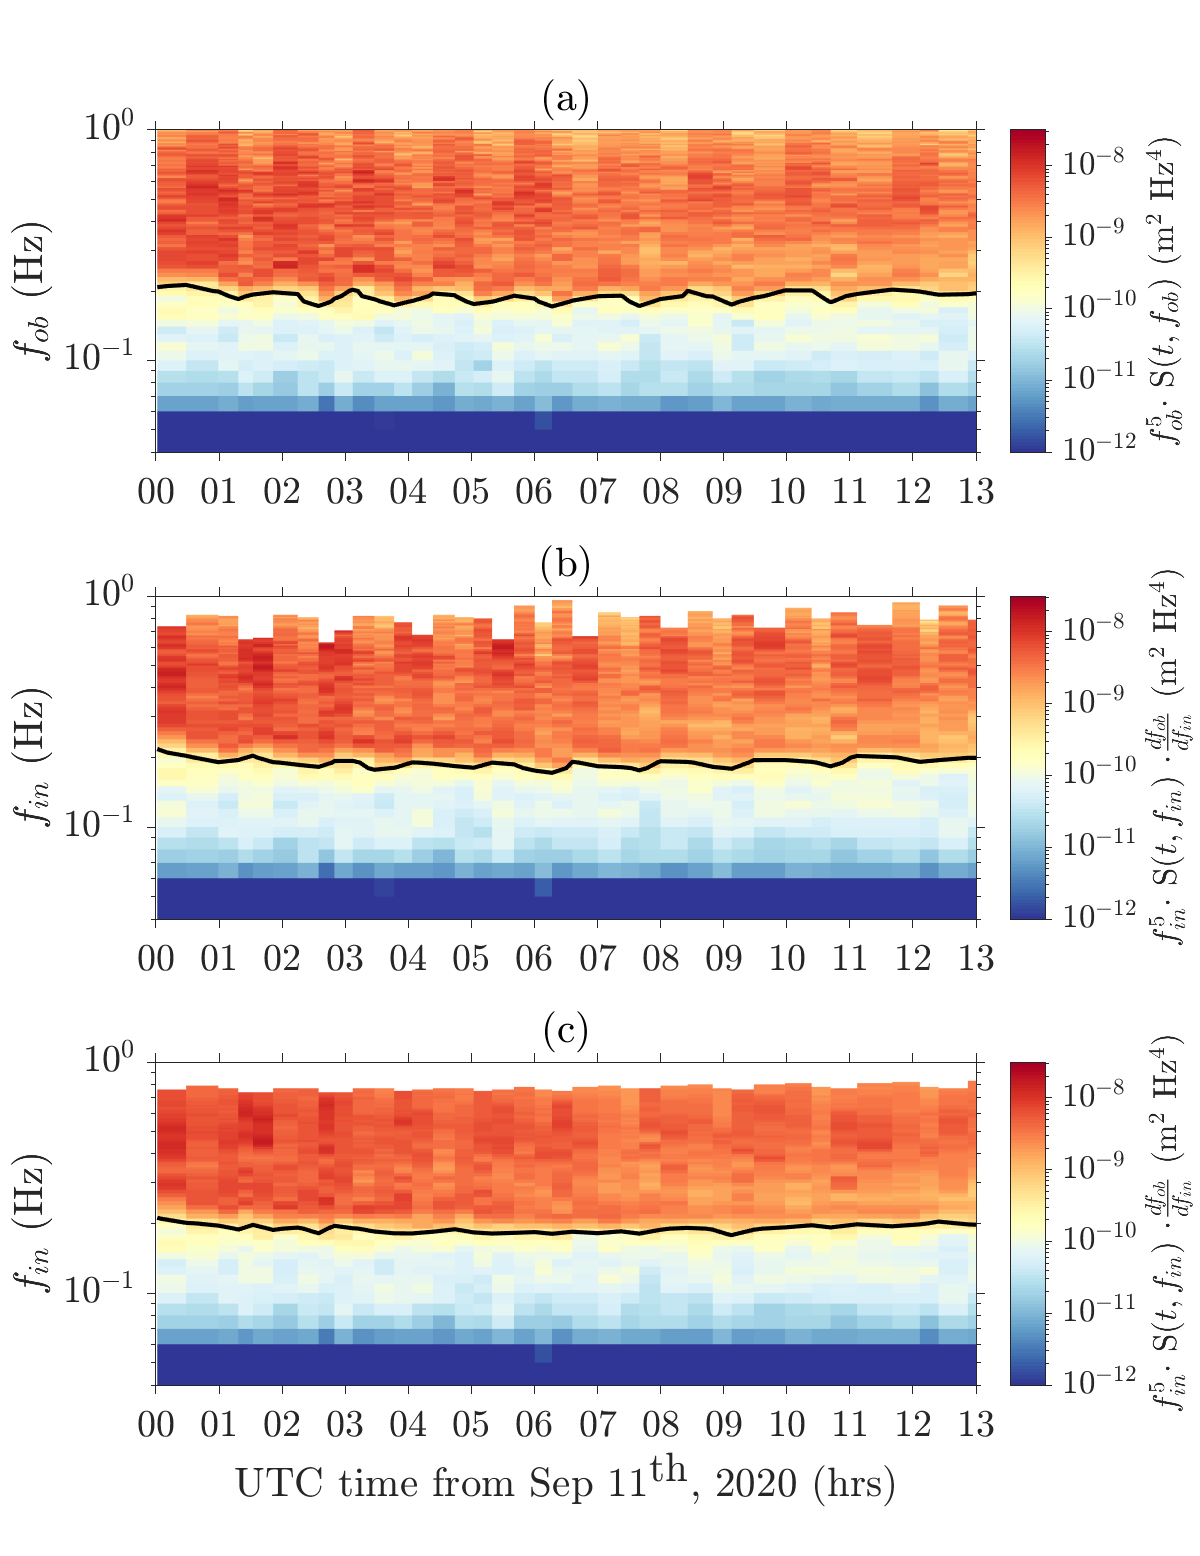
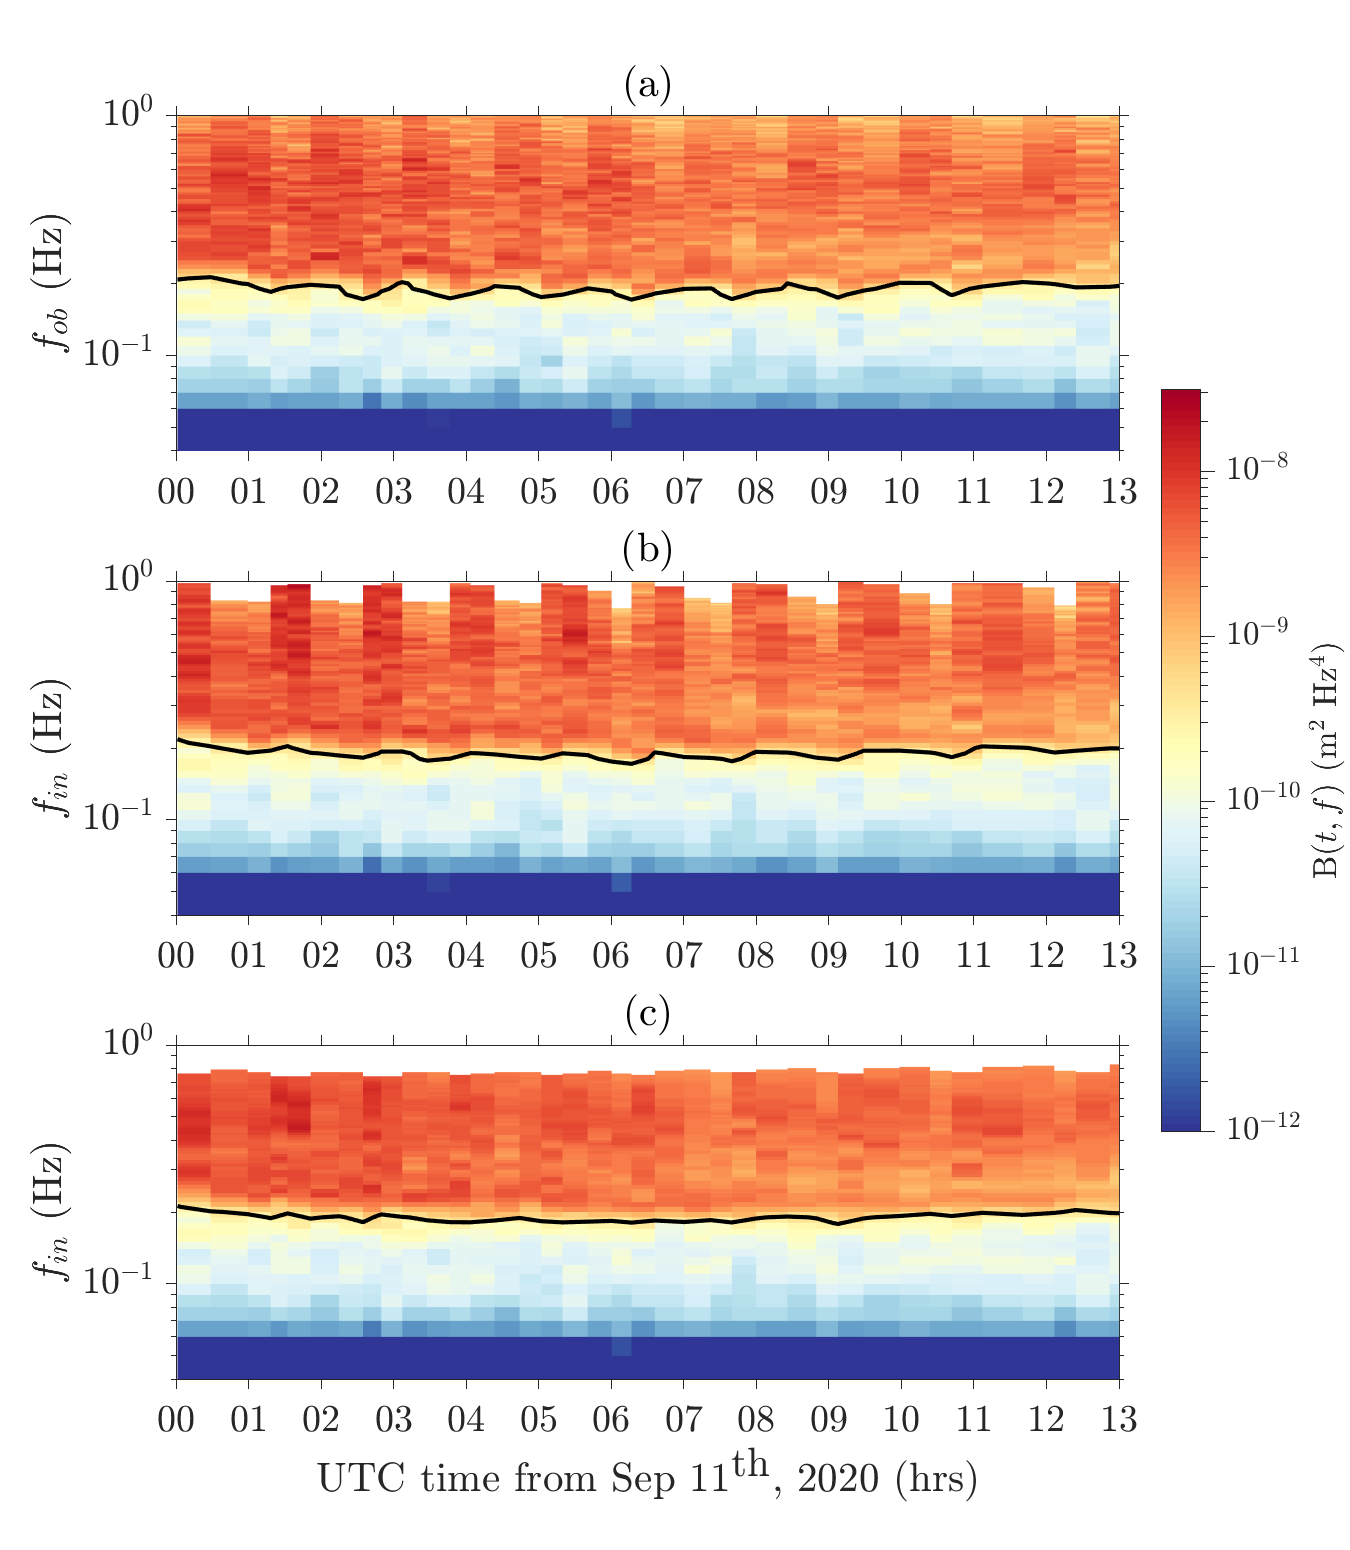
Merge colorbars, Increase font and update caption.

diff --git a/src/fig9.m b/src/fig9.m
@@ -2,10 +2,34 @@
 % Luke Colosi | lcolosi@ucsd.edu | August 20th, 2022
 
 %-------------------------------- Caption --------------------------------%
-% Sarturation wave spectrogram in observed frequency space (a) and
-% instrinsic frequency space using the (b) 1D- and (c) 2D-methods. The 
-% black curve is the 6*10^(-10) m$^2$Hz$^4$ power spectral density contour 
-% where the correlation coefficient $r$ is computed. 
+% Saturation wave spectrogram for the Stokes Wave Glider small box
+% trajectory in (a) observed frequency space and intrinsic frequency space
+% using the (b) 1D- and (c) 2D-methods. The black curve is the
+% $6\times10^{-10}$ m$^2$Hz$^4$ saturation spectral level contour where
+% the correlation coefficient $r$ is computed. 
+%-------------------------------------------------------------------------% 
+
+%--------------------------------- Notes ---------------------------------%
+% (1) Explanation for what's going wrong with attaching a spectral tail:
+% The spectral tail fitting works descently well when the blocking
+% frequency is within the saturation range and I fit a line in log10 space
+% from the equilibrium to saturation range transition frequency to
+% the highest accurately resolved frequency, the spectral tail is pretty
+% good. But when I try to fit the spectral tail in the equilibrium range,
+% the spectral tail is really bad! There are two reasons for this: 
+%
+%   (a) The transition frequency from the spectral peak to the equilibrium
+%   range is pretty low and close to the spectral peak. This transition
+%   frequency's function form was used in Lenain et al. 2017 (references
+%   Phillips 1985). I need to understand exactly where this comes from. 
+% 
+%   (b) As a result of (a), the linear fit includes a large band of the
+%   wave spectrum. For the delmar experiment, there exist multiple wave
+%   systems in the wave field (swell and developing wind seas). This biases
+%   the linear fit and makes it least squares approach unaffective. 
+% 
+% To resolve this problem, reduce the range of frequencies that we preform 
+% the least squares fit for the equilibrium range case. 
 %-------------------------------------------------------------------------% 
 
 clc, clear, close all;
@@ -52,7 +76,7 @@ nfft = fe_n/df;                                                             % Wi
 f = (0:df:fn);                                                              % Observed frequency (Hz)
 dtheta = 5;                                                                 % Angular resolution (degrees)
 ntheta = 360/dtheta+1;                                                      % Number of angles
-lambda_c = 1.5613;                                                          % % Wavelength cutoff (meters)
+lambda_c = 1.5613;                                                          % Wavelength cutoff (meters)
 f_noise = sqrt(g/(2*pi*lambda_c));                                          % Noise frequency cutoff 
 toolbox = 'WAFO';                                                           % Method used to compute directional spectrum 
 variables = 'heave_velocity';                                               % Heave and horizontal velocity are used to compute the direction spectrum
@@ -113,7 +137,7 @@ nov_s.Sd_f_ob = nov_s.Sd(:,Inoise_s,:);
 nov_s.sat_spectrogram_omni_f_ob = nov_s.spectrogram_omni_f_ob .* (nov_s.f_ob').^(5);
 
 %% Account for Doppler shifts by mapping observed frequency to intrinsic frequency
-clc
+clc, close all; 
 
 % Set variables for mapping
 tail = [zeros(size(nov_s.fst)); nov_s.feq; nov_s.fst]; 
@@ -130,7 +154,41 @@ for ileg = 1:nlegs_s
     [nov_s.dir_spectrogram_f_in(:,:,ileg), nov_s.f_in_2d(:,:,ileg), nov_s.dir_spectrogram_f_ob(:,:,ileg), ~, nov_s.fb_2d(:,:,ileg), ~, ~, ~]  = map_dir_spectrum(nov_s.Sd_f_ob(:,:,ileg)', nov_s.f_ob, f_noise, df, dtheta, nov_s.mspeed_legs(ileg), nov_s.rel_theta_legs(:,ileg), tail(:,ileg));
     
     % Compute Omni-directional Spectra from directional spectra 
-    nov_s.spectrogram_omni_f_in_2d(:,ileg) = sum(nov_s.dir_spectrogram_f_in(:,:,ileg) * dtheta, 2);
+    spectrogram_omni_f_in_2d_nt = sum(nov_s.dir_spectrogram_f_in(:,:,ileg) * dtheta, 2);
+
+    % Find non-nan values in S_fin after mapping
+    idx_nan = ~isnan(spectrogram_omni_f_in_2d_nt); 
+
+    % Attach a spectral tail if specified
+    if tail(1,ileg) == true
+        S_truc = spectrogram_omni_f_in_2d_nt(idx_nan);
+        f_truc = nov_s.f_ob(idx_nan);
+        f_tail = [f_truc(end), nov_s.f_ob(~idx_nan)];
+        [nov_s.spectrogram_omni_f_in_2d(:,ileg), ~, fit, f_fit] = omnidir_spectral_tail(S_truc, f_truc, f_tail, tail(2,ileg), tail(3,ileg), f_noise);
+    else
+        nov_s.spectrogram_omni_f_in_2d(:,ileg) = spectrogram_omni_f_in_2d_nt;
+    end
+
+%     % Plot omni-directional spectra with and without tails
+%     figure('units','normalized','outerposition',[0.6 0.5 0.4 0.6]);
+%     loglog(nov_s.f_ob, spectrogram_omni_f_in_2d_nt, '-b', 'LineWidth', 2)
+% 
+%     % Set figure attributes
+%     xlabel('f (Hz)')
+%     ylabel('S(f) ($m^2 Hz^{-1}$)')
+%     xlim([10^-2 10^0])
+%     ylim([10^-10 10^-4])
+%     set(gca, 'FontSize', 15)
+% 
+%     % Save Figure
+%     saveas(gcf, '../../WaveGlider/figs/SMODE_P2021/omnidir_spec_tail_1.png')
+% 
+%     % Plot the least-square fit and the omni-directional spectrum with
+%     % spectral tail 
+%     hold on 
+%     loglog(nov_s.f_ob, nov_s.spectrogram_omni_f_in_2d(:,ileg), ':r', 'LineWidth', 2)
+%     loglog(f_fit, fit, '.-k', 'LineWidth', 2)
+%     hold off
 
 end
 
@@ -139,11 +197,11 @@ nov_s.sat_spectrogram_omni_f_in_1d = nov_s.spectrogram_omni_f_in_1d .* (nov_s.f_
 nov_s.sat_spectrogram_omni_f_in_2d = nov_s.spectrogram_omni_f_in_2d .* (nov_s.f_ob').^(5); 
 
 %% Plot Observed and Intrinsic Saturation Spectrograms
-clc, close all 
+clc
 
 % Set frequency low cutoff and latitude for small box cutoff
-Ifreq_l = find(nov_s.f_ob > 0.03);                                          %Frequency low cutoff 
-Ifreq_h = find(nov_s.f_ob > 0.03 & nov_s.f_ob < 0.4);                       %Frequency low and high cutoff
+Ifreq_l = find(nov_s.f_ob > 0.03);                                          % Frequency low cutoff 
+Ifreq_h = find(nov_s.f_ob > 0.03 & nov_s.f_ob < 0.4);                       % Frequency low and high cutoff
 Ilat_s = find(nov_s.mlat_legs < 32.93);                                     % Indices for legs in small box
 
 % Set plotting variables
@@ -155,7 +213,7 @@ t_ticks = datenum(first:hours(1):last);
 fontsize = 18;
 
 % Create Figure and axes
-figure('units','normalized','outerposition',[0 0 0.4 1])
+figure('units','normalized','outerposition',[0 0 0.45 1])
 
 %------------------- Observed Frequency Saturation Spectrogram -------------------%
 ax1 = subplot(3,1,1);
@@ -184,7 +242,7 @@ cb = colorbar;
 colormap(flipud(cbrewer2('RdYlBu', 100)))
 set(gca,'ColorScale','log')
 cb.Label.Interpreter = 'Latex';
-cb.Label.String = '$f_{ob}^{5} \cdot$ S($t,f_{ob}$) (m$^2$ Hz$^{4}$)';
+cb.Label.String = 'B($t,f$) (m$^2$ Hz$^{4}$)';
 caxis([10^-12, 10^-7.5]);
 cb.Ticks = [10^-12; 10^-11; 10^-10; 10^-9; 10^-8] ;
 cb.TickLabels = { '$10^{-12}$'; '$10^{-11}$'; '$10^{-10}$'; '$10^{-9}$'; '$10^{-8}$'} ; 
@@ -192,6 +250,7 @@ cb.TickLabelInterpreter = 'latex';
 cb.TickDirection = 'out';
 cb.TickLength = 0.02;
 cb.FontSize = fontsize-2;
+cb.Position = [0.860243103645498 0.270161290322581 0.0286457852433912 0.478648761961135]; 
 
 %------------------- 1D-method Intrinsic Frequency Saturation Spectrogram -------------------%
 ax2 = subplot(3,1,2);
@@ -220,14 +279,17 @@ cb = colorbar;
 colormap(flipud(cbrewer2('RdYlBu')))
 set(gca,'ColorScale','log')
 cb.Label.Interpreter = 'Latex';
-cb.Label.String = '$f_{in}^{5} \cdot$ S($t,f_{in}$) $\cdot \frac{df_{ob}}{df_{in}}$ (m$^2$ Hz$^{4}$)';
+cb.Label.String = 'B$_{in}$($t,f_{in}$) (m$^2$ Hz$^{4}$)';
 caxis([10^-12, 10^-7.5]);
 cb.Ticks = [10^-12; 10^-11; 10^-10; 10^-9; 10^-8] ;
 cb.TickLabels = { '$10^{-12}$'; '$10^{-11}$'; '$10^{-10}$'; '$10^{-9}$'; '$10^{-8}$'} ;  
 cb.TickLabelInterpreter = 'latex';
 cb.TickDirection = 'out';
 cb.TickLength = 0.02;
-cb.FontSize = fontsize-2;
+cb.FontSize = fontsize;
+
+% Turn off colorbar
+colorbar('off')
 
 %------------------- 2D-method Intrinsic Frequency Saturation Spectrogram -------------------%
 ax3 = subplot(3,1,3);
@@ -257,14 +319,32 @@ cb = colorbar;
 colormap(flipud(cbrewer2('RdYlBu')))
 set(gca,'ColorScale','log')
 cb.Label.Interpreter = 'Latex';
-cb.Label.String = '$f_{in}^{5} \cdot$ S($t,f_{in}$) $\cdot \frac{df_{ob}}{df_{in}}$ (m$^2$ Hz$^{4}$)';
+cb.Label.String = 'B$_{in}$($t,f_{in}$) (m$^2$ Hz$^{4}$)';
 caxis([10^-12, 10^-7.5]);
 cb.Ticks = [10^-12; 10^-11; 10^-10; 10^-9; 10^-8] ;
 cb.TickLabels = { '$10^{-12}$'; '$10^{-11}$'; '$10^{-10}$'; '$10^{-9}$'; '$10^{-8}$'} ;  
 cb.TickLabelInterpreter = 'latex';
 cb.TickDirection = 'out';
 cb.TickLength = 0.02;
-cb.FontSize = fontsize-2;
+cb.FontSize = fontsize;
+
+% Turn off colorbar
+colorbar('off')
+
+%-------- Set the position of the subplots --------%
+% find current position [x,y,width,height]
+pos1 = get(ax1,'Position');
+pos2 = get(ax2,'Position');
+pos3 = get(ax3,'Position');
+
+% set width of the axes equal to a set width
+width = 0.6986; 
+pos1(3) = width; 
+pos2(3) = width;
+pos3(3) = width;
+set(ax1,'Position',pos1)
+set(ax2,'Position',pos2)
+set(ax3,'Position',pos3)
 
 % Save Figure
 saveas(gcf, [fig_path 'figure_9.png'])
